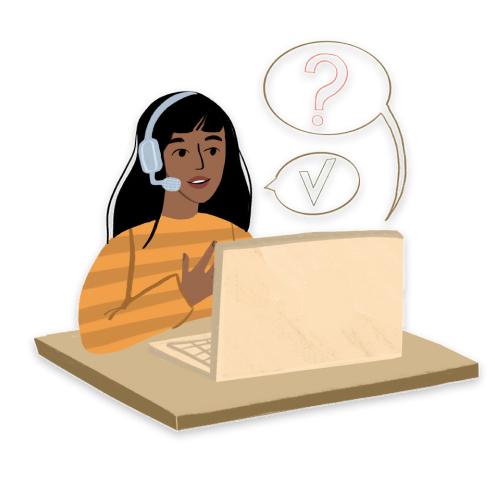
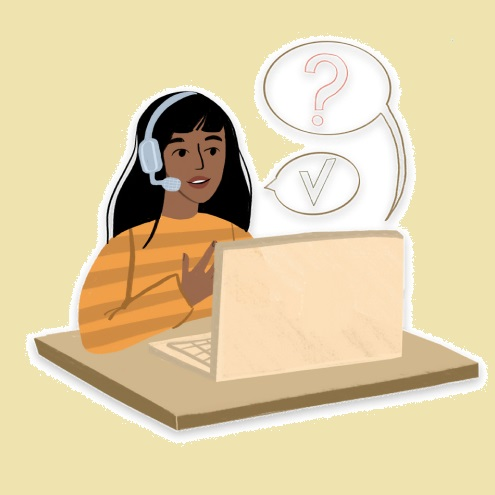
added background color and modified image

diff --git a/index.html b/index.html
@@ -20,7 +20,7 @@
           <div class="form-side">
             <form action="action_page.php" method="POST">
               <div>
-                <label for="fullname">Full name</label>
+                <label for="fullname">Full name:</label>
                 <input
                   type="text"
                   class="Fullname"
@@ -32,7 +32,7 @@
               <br />
 
               <div>
-                <label for="email">Email Address</label>
+                <label for="email">Email Address:</label>
                 <input
                   type="email"
                   class="email"
@@ -44,19 +44,19 @@
               <br />
 
               <div>
-                <label for="phone">Telephone Number</label>
+                <label for="phone">Telephone Number:</label>
                 <input type="tel" class="phone" placeholder="(123) 4567890" />
               </div>
 
               <br />
 
               <div>
-                <label for="message">Message</label>
+                <label for="message">Message:</label>
                 <textarea
                   name="message"
                   class="message-area"
                   cols="20"
-                  rows="3"
+                  rows="1"
                   placeholder="Type your message here"
                 ></textarea>
               </div>
@@ -70,7 +70,7 @@
           </div>
         </section>
         <section class="section1">
-          <img src="image/Tech support call on the computer.jpg" alt="woman working on a laptop" />
+          <img class="img-woman" src="image/Tech support call on the computer.jpg" alt="woman working on a laptop" />
         </section>
       </div>
     </main>

diff --git a/css/style.css b/css/style.css
@@ -3,6 +3,7 @@
 body {
   max-width: 2304px;
   margin: auto;
+  background-color: beige;
 }
 
 * {
@@ -28,7 +29,7 @@ input[type="text"] {
   padding: 12px 20px;
   margin: 8px 0;
   box-sizing: border-box;
-  border: 2px solid cornflowerblue;
+  border-bottom: 3px solid cornflowerblue;
   border-radius: 4px;
 }
 
@@ -36,7 +37,7 @@ input[type="email"] {
   padding: 12px 20px;
   margin: 8px 0;
   box-sizing: border-box;
-  border: 2px solid cornflowerblue;
+  border-bottom: 3px solid cornflowerblue;
   border-radius: 4px;
 }
 
@@ -44,12 +45,12 @@ input[type="tel"] {
   padding: 12px 20px;
   margin: 8px 0;
   box-sizing: border-box;
-  border: 2px solid cornflowerblue;
+  border-bottom: 3px solid cornflowerblue;
   border-radius: 4px;
 }
 
 .message-area {
-  border: 2px solid cornflowerblue;
+  border-bottom: 3px solid cornflowerblue;
   border-radius: 4px;
 }
 
@@ -62,4 +63,15 @@ button {
 
 .section1 {
   display: inline-block;
+  position: relative;
+  top: 50px;
+  left: 50px;
+}
+
+.img-woman {
+  position: relative;
+  left: 50px;
+  border: 2px solid;
+  border-color: beige;
+  border-radius: 50%;
 }
